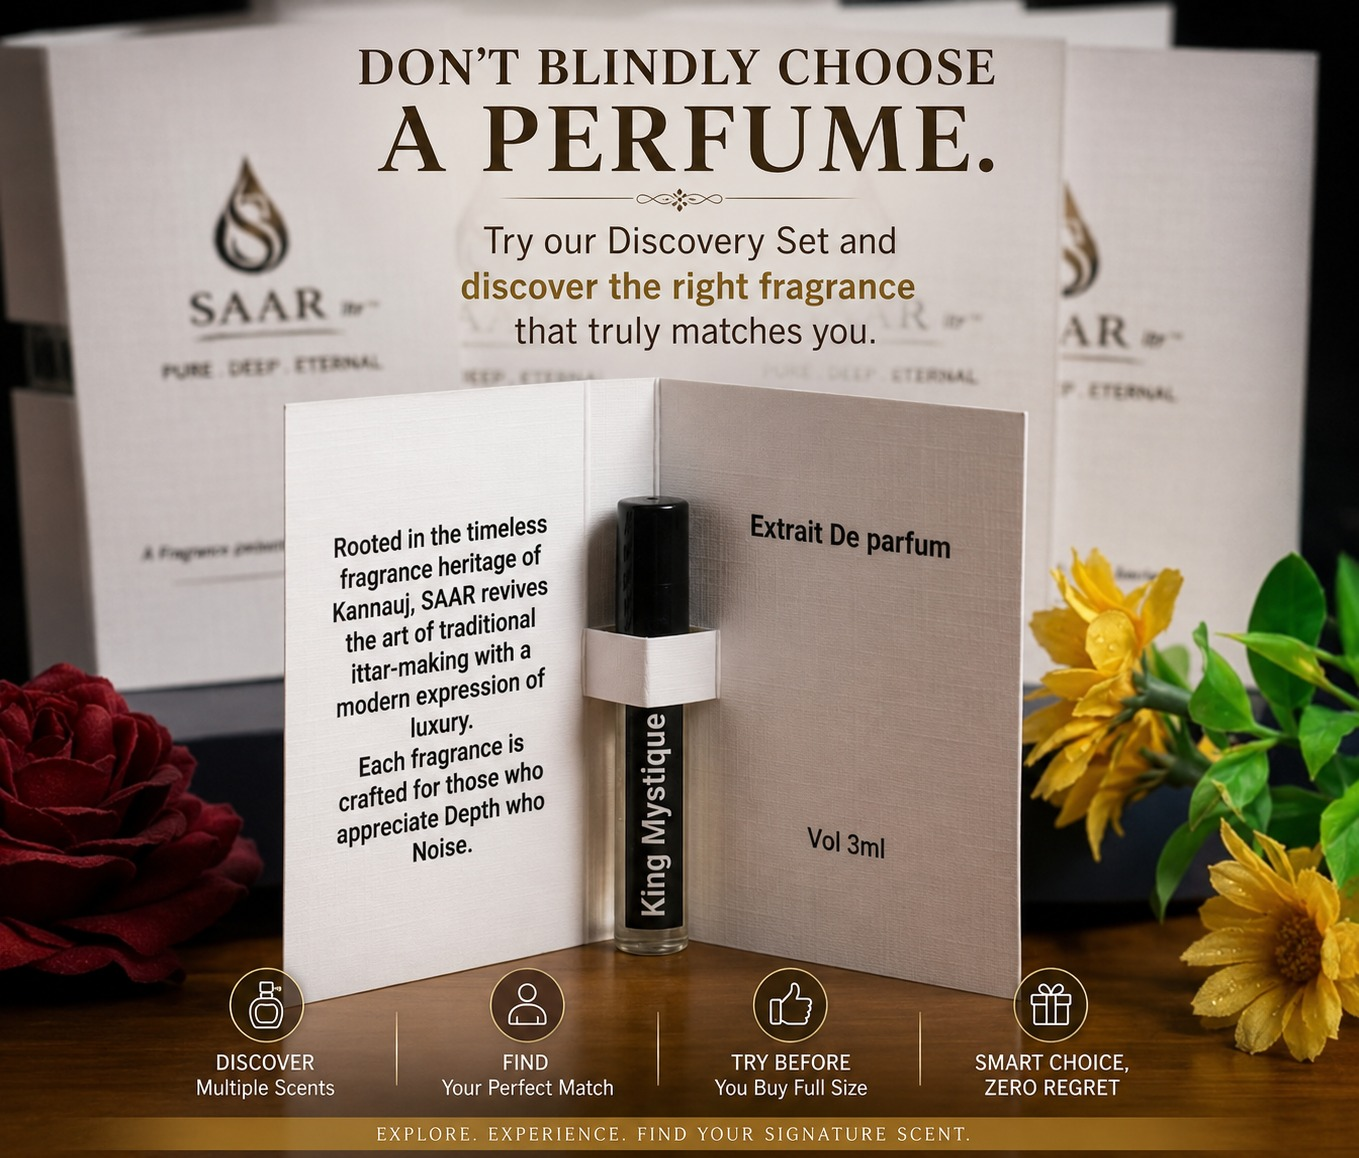
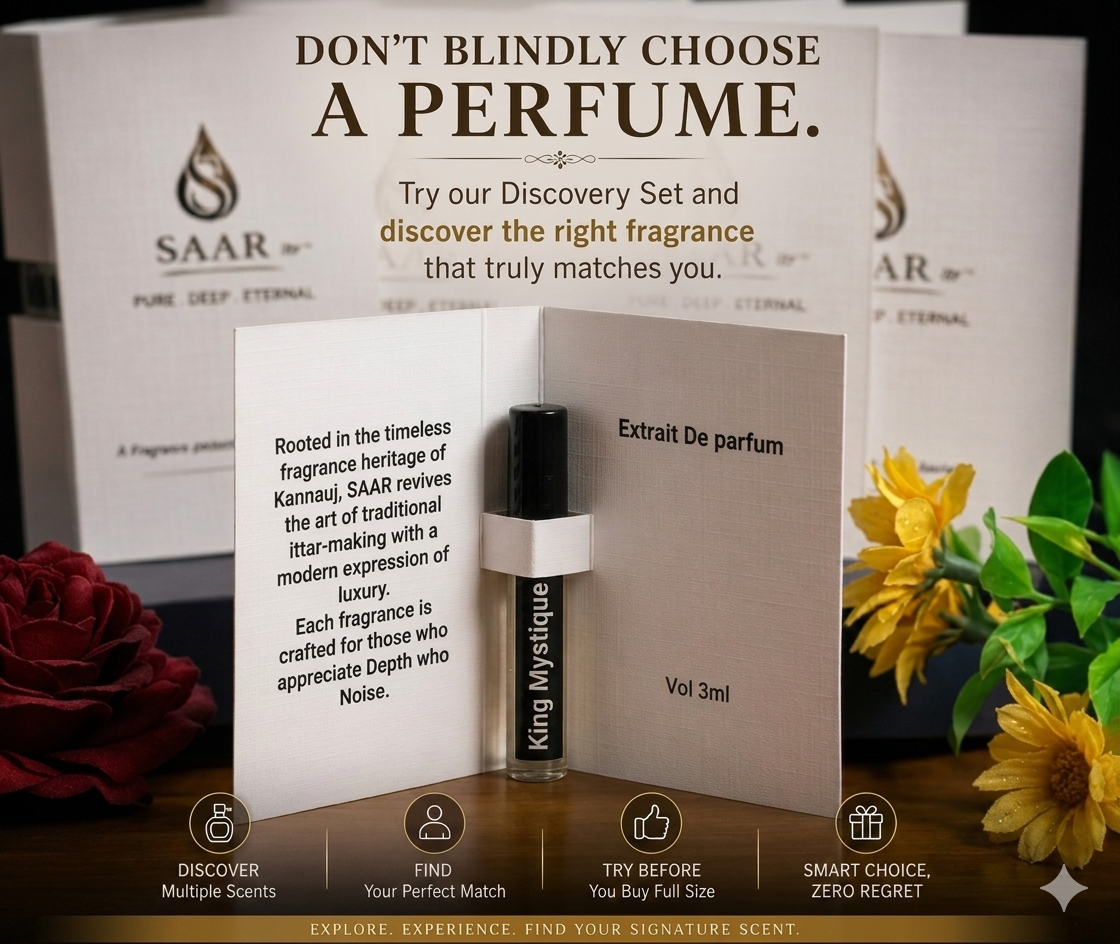
Minor Correction

diff --git a/src/components/FAQSection.tsx b/src/components/FAQSection.tsx
@@ -4,13 +4,13 @@ import { ChevronDown, ChevronUp, ChevronLeft, ChevronRight } from "lucide-react"
 // Your structured JSON
 const faqData = [
   { "section": "shipping", "questionNum": "1", "question": "What would be the timeline for shipping?", "answer": "Delivery times vary by location. Orders are typically delivered within 5 to 7 business days after processing. You’ll receive the delivery details in your confirmation message" },
-  { "section": "shipping", "questionNum": "2", "question": "Do you offer free shipping?", "answer": "Yes, we offer free domestic shipping on orders above ₹999. Shipping offers may vary from time to time based on ongoing promotions and special offers" },
-  { "section": "orders", "questionNum": "2", "question": "Is gift wrapping available for my order?", "answer": "Yes, your order can be gift wrapped. Simply mention your request while placing the order. You can also include a personalized handwritten note" },
+  { "section": "shipping", "questionNum": "2", "question": "Do you offer free shipping?", "answer": "Yes, we offer free domestic shipping on orders above ₹999." },
+  { "section": "orders", "questionNum": "2", "question": "Is gift wrapping available for my order?", "answer": "Yes, your order can be gift wrapped. Simply mention your request while placing the order. You can also include a personalized handwritten note on your behalf." },
   { "section": "orders", "questionNum": "3", "question": "Can I modify my order after placing it?", "answer": "Orders can be modified within 1 hour of placement by messaging." },
   { "section": "payments", "questionNum": "4", "question": "What payment methods do you accept?", "answer": "We accept UPI based payment for online order." },
   { "section": "fragrance", "questionNum": "4", "question": "Are your fragrances unisex?", "answer": "Yes, our fragrances are thoughtfully crafted to be enjoyed by everyone, regardless of gender." },
-  { "section": "fragrance", "questionNum": "4", "question": "Which fragrance is best for daily / office wear?", "answer": "Aqua Aura, Cool Rush, Stone Edge, and Blue Edge are perfect choices for daily use and office wear, offering fresh and versatile fragrances." },
-  { "section": "fragrance", "questionNum": "4", "question": "Which fragrance is best for special occasions?", "answer": "Oud Eternal, Amber Drift, and Golden Aura are ideal for special occasions, offering rich, elegant, and long-lasting fragrances." },
+  { "section": "fragrance", "questionNum": "4", "question": "Which fragrance is best for daily / office wear?", "answer": "Aqua Aura, Cool Rush, Stone Edge, and Blue Edge are perfect choices for daily use and office wear, offering fresh and versatile fragrances, although it may vary depending on personal preference." },
+  { "section": "fragrance", "questionNum": "4", "question": "Which fragrance is best for special occasions?", "answer": "Oud Eternal, Amber Drift, and Golden Aura are ideal for special occasions, offering rich, elegant, and long-lasting fragrances, though the perfect choice also depends on personal preference." },
   { "section": "fragrance", "questionNum": "4", "question": "Can I customize my discovery set?", "answer": "Yes, you can choose any 5 fragrances from the 10 fragrance profiles available on our website." },
 ];
 

diff --git a/src/components/Story.tsx b/src/components/Story.tsx
@@ -55,16 +55,16 @@ const Story = () => {
           {/* Condensed text blocks for better flow */}
           <div className="text-[#2D2D2D] max-w-3xl mx-auto text-lg leading-relaxed font-medium space-y-5">
             <p>
-              SAAR was created with a simple belief — fragrance should feel personal, powerful, and rooted in identity. Inspired by India's rich perfumery heritage, especially the timeless traditions of Kannauj, SAAR blends cultural depth with modern refinement.
+              SAAR was created with a simple belief that fragrance should feel personal, powerful, and rooted in identity. Inspired by India's rich perfumery heritage, especially the timeless traditions of Kannauj, SAAR blends cultural depth with modern refinement.
             </p>
             <p>
-              Our fragrances are thoughtfully curated to suit Indian preferences, climate, and lifestyle — offering long-lasting performance with a premium feel. We don't just create perfumes. We create presence.
+              Our fragrances are thoughtfully curated to suit Indian preferences, climate, and lifestyle and offering long-lasting performance with a premium feel. We don't just create perfumes. We create presence.
             </p>
             <p>
-              In a world of fast trends and fleeting impressions, SAAR was born to bring back depth and meaning to fragrance. India has a long-standing legacy of perfumery, where scent has always been more than just a luxury — it has been a part of culture, rituals, and identity.
+              In a world of fast trends and fleeting impressions, SAAR was born to bring back depth and meaning to fragrance. India has a rich legacy of perfumery, where fragrance has always been more than a luxury and has remained deeply connected to culture, rituals, and identity
             </p>
             <p>
-              In the historic city of Kannauj, this craft has been refined over generations. SAAR draws inspiration from this heritage and reimagines it for today — creating fragrances that are modern in expression, yet rooted in tradition.
+              In the historic city of Kannauj, this craft has been refined over generations. SAAR draws inspiration from this heritage and reimagines it for today, creating fragrances that are modern in expression, yet rooted in tradition.
             </p>
           </div>
         </div>